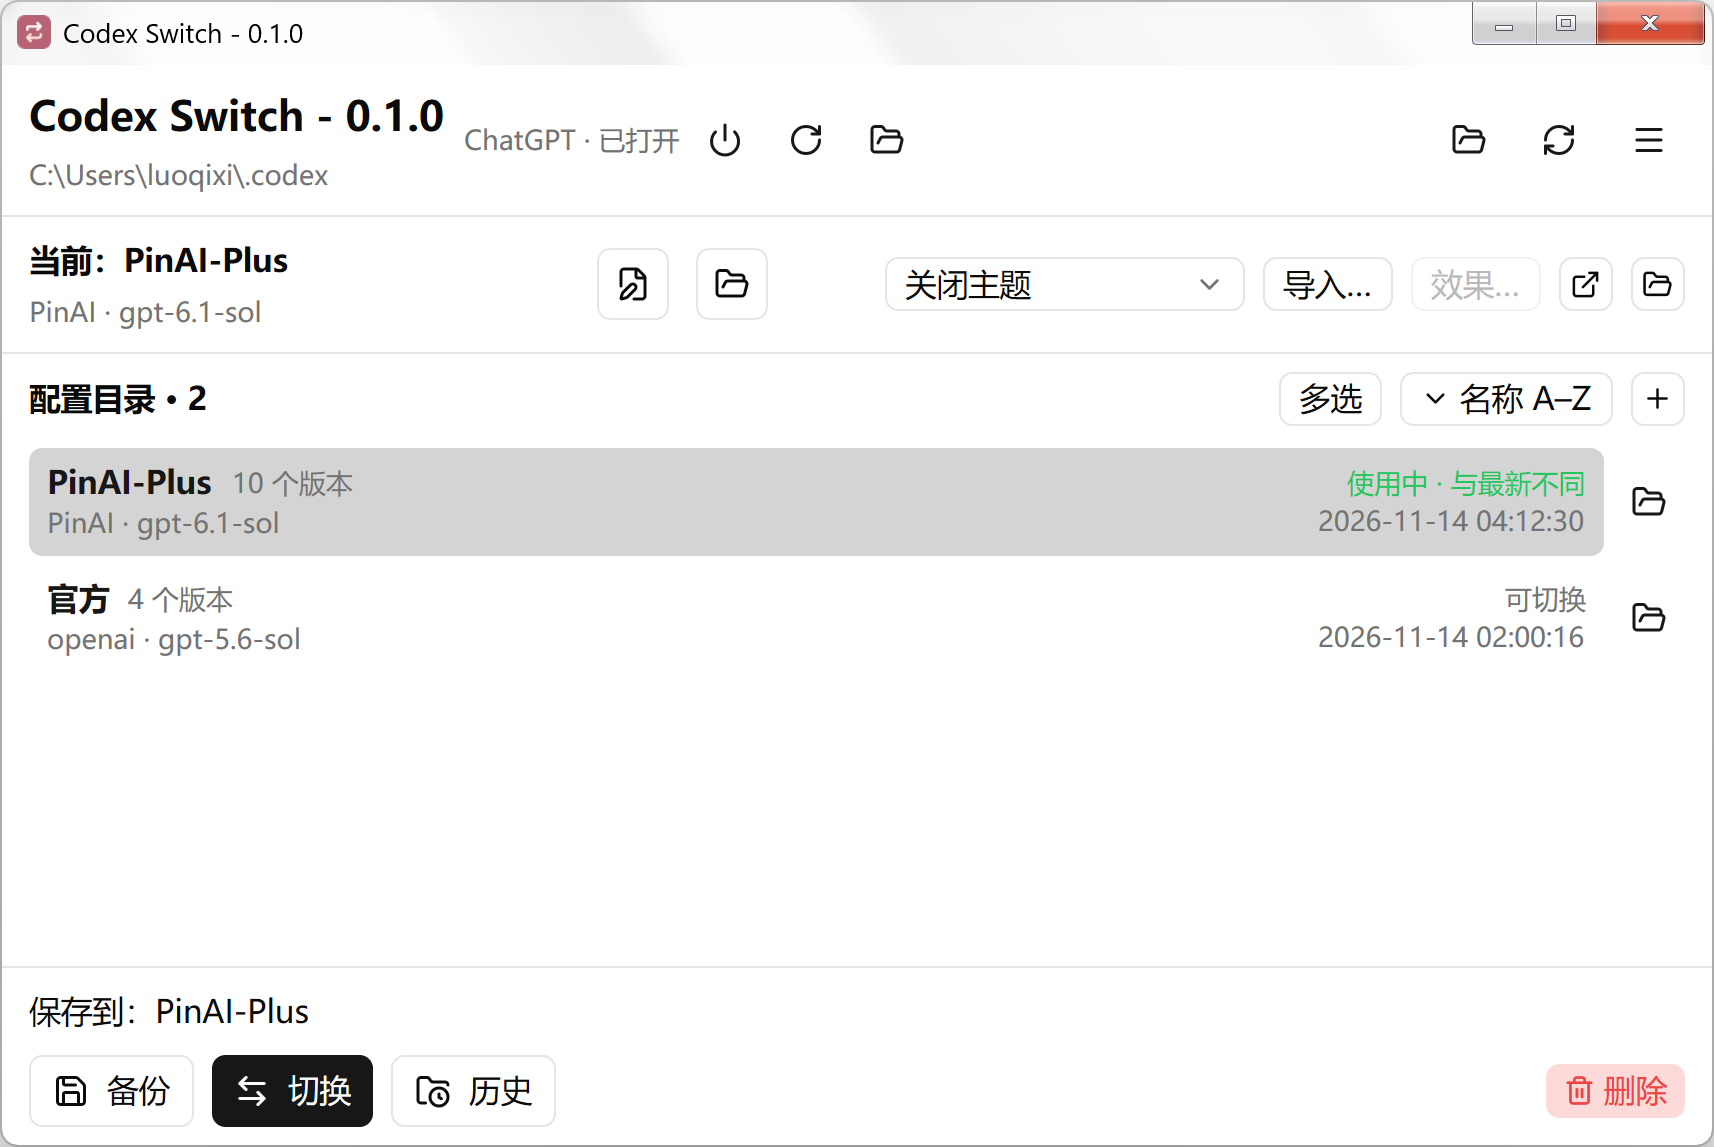
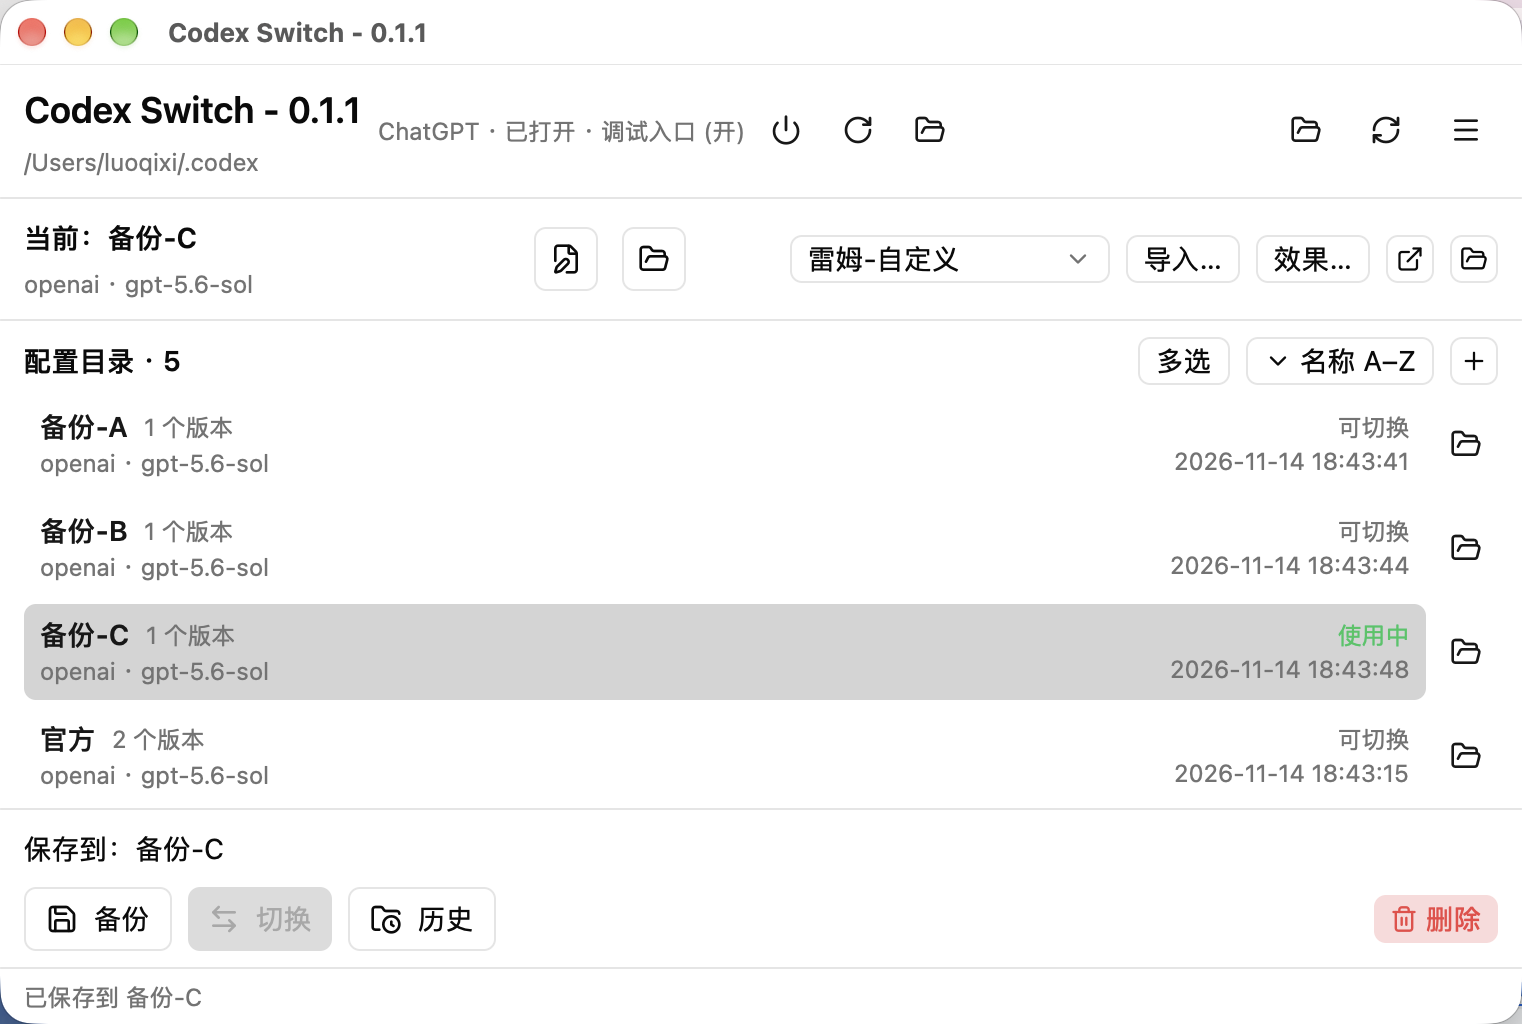
feat: macos and 0.1.1

diff --git a/src/desktop/macos.rs b/src/desktop/macos.rs
@@ -11,32 +11,47 @@ function run(argv) {
     const running = workspace.runningApplications;
     const unwrap = value => value ? (ObjC.unwrap(value) || '') : '';
     return JSON.stringify(specs.map(spec => {
-        const defaultId = 'com.openai.chat';
-        let path = spec.path;
-        let bundleId = defaultId;
+        // Current ChatGPT/Codex releases and the original ChatGPT desktop app.
+        const bundleIds = ['com.openai.codex', 'com.openai.chat'];
+        const normalize = path => unwrap($(path).stringByStandardizingPath.stringByResolvingSymlinksInPath);
+        const identifier = path => {
+            const bundle = $.NSBundle.bundleWithPath(path);
+            return bundle ? unwrap(bundle.bundleIdentifier) : '';
+        };
+        let path = spec.path ? normalize(spec.path) : '';
         let problem = '';
         if (!path) {
-            const url = workspace.URLForApplicationWithBundleIdentifier(defaultId);
-            path = url ? unwrap(url.path) : '';
-            if (!path) path = unwrap(workspace.fullPathForApplication(spec.name));
+            const candidates = bundleIds.map(id => {
+                const url = workspace.URLForApplicationWithBundleIdentifier(id);
+                return url ? unwrap(url.path) : '';
+            });
+            candidates.push(unwrap(workspace.fullPathForApplication(spec.name)),
+                '/Applications/' + spec.name + '.app',
+                unwrap($.NSHomeDirectory()) + '/Applications/' + spec.name + '.app');
+            for (const candidate of candidates) {
+                if (!candidate) continue;
+                const normalized = normalize(candidate);
+                if (!bundleIds.includes(identifier(normalized))) continue;
+                path = normalized;
+                break;
+            }
         }
-        const normalize = path => unwrap($(path).stringByStandardizingPath.stringByResolvingSymlinksInPath);
-        if (path) path = normalize(path);
-        if (path) {
-            const bundle = $.NSBundle.bundleWithPath(path);
-            const id = bundle ? unwrap(bundle.bundleIdentifier) : '';
-            if (!id || id !== defaultId) {
-                problem = 'Invalid ' + spec.name + ' application. Check Settings.';
-            } else { bundleId = id; }
+        let bundleId = path ? identifier(path) : '';
+        if (path && !bundleIds.includes(bundleId)) {
+            problem = 'Invalid ' + spec.name + ' application. Check Settings.';
         }
         const pids = [];
         for (let i = 0; i < running.count; i++) {
             const app = running.objectAtIndex(i);
-            if (unwrap(app.bundleIdentifier) !== bundleId || app.isTerminated) continue;
+            const id = unwrap(app.bundleIdentifier);
+            if (!bundleIds.includes(id) || (bundleId && id !== bundleId) || app.isTerminated) continue;
             const runningPath = app.bundleURL ? normalize(unwrap(app.bundleURL.path)) : '';
             if (spec.path && runningPath !== path) continue;
             pids.push(Number(app.processIdentifier));
-            if (!path) path = runningPath;
+            if (!path) {
+                path = runningPath;
+                bundleId = id;
+            }
         }
         return {name: spec.name, path, pids, problem};
     }));
@@ -105,4 +120,59 @@ pub(super) fn launch(status: &AppStatus) -> Result<()> {
     command.arg("--args").args(theme_arguments);
     output(command).context("无法打开 macOS 应用，请检查设置中的 .app 路径")?;
     Ok(())
+}
+
+#[cfg(test)]
+mod tests {
+    use super::*;
+
+    fn app_bundle(root: &Path, name: &str, identifier: &str) -> PathBuf {
+        let bundle = root.join(format!("{name}.app"));
+        let contents = bundle.join("Contents");
+        std::fs::create_dir_all(&contents).unwrap();
+        std::fs::write(
+            contents.join("Info.plist"),
+            format!(
+                r#"<?xml version="1.0" encoding="UTF-8"?>
+<plist version="1.0"><dict>
+<key>CFBundleIdentifier</key><string>{identifier}</string>
+<key>CFBundleName</key><string>{name}</string>
+<key>CFBundlePackageType</key><string>APPL</string>
+</dict></plist>"#
+            ),
+        )
+        .unwrap();
+        bundle.canonicalize().unwrap()
+    }
+
+    #[test]
+    fn configured_path_accepts_current_and_legacy_chatgpt_bundle_ids() {
+        let temp = tempfile::tempdir().unwrap();
+        for (name, identifier) in [
+            ("Current ChatGPT", "com.openai.codex"),
+            ("Legacy ChatGPT", "com.openai.chat"),
+        ] {
+            let path = app_bundle(temp.path(), name, identifier);
+            let statuses = inspect(&[path.to_string_lossy().into_owned()]).unwrap();
+            let status = &statuses[0];
+            assert!(status.problem().is_none(), "{status:?}");
+            assert_eq!(status.path.as_ref().unwrap().canonicalize().unwrap(), path);
+            assert!(status.has_installation_path());
+            // Another installed copy with the same ID must not match this path.
+            assert!(!status.is_running());
+        }
+    }
+
+    #[test]
+    fn configured_path_rejects_unrelated_or_missing_application() {
+        let temp = tempfile::tempdir().unwrap();
+        let unrelated = app_bundle(temp.path(), "Other", "com.example.other");
+        for path in [unrelated, temp.path().join("Missing.app")] {
+            let statuses = inspect(&[path.to_string_lossy().into_owned()]).unwrap();
+            let status = &statuses[0];
+            assert!(status.problem().is_some(), "{status:?}");
+            assert!(!status.has_installation_path());
+            assert!(!status.is_running());
+        }
+    }
 }

diff --git a/tools/generate-icon.rs b/tools/generate-icon.rs
@@ -8,6 +8,8 @@ use resvg::{
 use std::{fs, io::Write, path::Path};
 
 const ICON_SIZES: [u32; 7] = [16, 24, 32, 48, 64, 128, 256];
+// Leave room around the artwork to match the optical size of macOS Dock icons.
+const MACOS_ICON_SCALE: f32 = 0.86;
 const PREVIEW: &str = r##"<svg xmlns="http://www.w3.org/2000/svg" width="960" height="420">
   <rect width="960" height="420" fill="#F2F4F6"/>
   <rect x="480" width="480" height="420" fill="#141A21"/>
@@ -34,13 +36,17 @@ fn main() -> Result<()> {
     let icon = usvg::Tree::from_data(&source, &options).context("无法解析应用图标 SVG")?;
 
     let png = render(&icon, 512, 512)?.encode_png()?;
+    let macos_png = render_macos_icon(&icon, 512)?.encode_png()?;
     let ico = encode_ico(&icon)?;
+    let icns = encode_icns(&icon)?;
     let preview = render_preview(&icon, &options)?.encode_png()?;
 
     fs::create_dir_all(root.join("docs"))?;
     for (name, data) in [
         ("assets/icon.png", png),
+        ("assets/icon-macos.png", macos_png),
         ("assets/icon.ico", ico),
+        ("assets/icon.icns", icns),
         ("docs/icon-preview.png", preview),
     ] {
         fs::write(root.join(name), data).with_context(|| format!("无法写入 {name}"))?;
@@ -50,10 +56,22 @@ fn main() -> Result<()> {
 }
 
 fn render(tree: &usvg::Tree, width: u32, height: u32) -> Result<Pixmap> {
+    render_scaled(tree, width, height, 1.0)
+}
+
+fn render_macos_icon(tree: &usvg::Tree, size: u32) -> Result<Pixmap> {
+    render_scaled(tree, size, size, MACOS_ICON_SCALE)
+}
+
+fn render_scaled(tree: &usvg::Tree, width: u32, height: u32, artwork_scale: f32) -> Result<Pixmap> {
     let mut pixmap = Pixmap::new(width, height).context("无法分配图标画布")?;
     let scale = Transform::from_scale(
-        width as f32 / tree.size().width(),
-        height as f32 / tree.size().height(),
+        width as f32 / tree.size().width() * artwork_scale,
+        height as f32 / tree.size().height() * artwork_scale,
+    )
+    .post_translate(
+        width as f32 * (1.0 - artwork_scale) / 2.0,
+        height as f32 * (1.0 - artwork_scale) / 2.0,
     );
     resvg::render(tree, scale, &mut pixmap.as_mut());
     Ok(pixmap)
@@ -84,6 +102,32 @@ fn encode_ico(tree: &usvg::Tree) -> Result<Vec<u8>> {
         ico.extend_from_slice(&frame);
     }
     Ok(ico)
+}
+
+fn encode_icns(tree: &usvg::Tree) -> Result<Vec<u8>> {
+    // macOS PNG chunks: standard and Retina representations up to 1024px.
+    let mut chunks = Vec::new();
+    for (kind, size) in [
+        (*b"icp4", 16),
+        (*b"ic11", 32),
+        (*b"icp5", 32),
+        (*b"ic12", 64),
+        (*b"ic07", 128),
+        (*b"ic13", 256),
+        (*b"ic08", 256),
+        (*b"ic14", 512),
+        (*b"ic09", 512),
+        (*b"ic10", 1024),
+    ] {
+        let png = render_macos_icon(tree, size)?.encode_png()?;
+        chunks.extend_from_slice(&kind);
+        chunks.extend_from_slice(&u32::try_from(png.len() + 8)?.to_be_bytes());
+        chunks.extend_from_slice(&png);
+    }
+    let mut icns = Vec::from(*b"icns");
+    icns.extend_from_slice(&u32::try_from(chunks.len() + 8)?.to_be_bytes());
+    icns.extend_from_slice(&chunks);
+    Ok(icns)
 }
 
 fn render_preview(icon: &usvg::Tree, options: &usvg::Options<'_>) -> Result<Pixmap> {

diff --git a/src/themes.rs b/src/themes.rs
@@ -41,7 +41,7 @@ fn verify_listener() -> Result<()> {
     }
     #[cfg(not(target_os = "windows"))]
     {
-        let _ = expected;
+        drop(expected);
         Ok(())
     }
 }
@@ -538,13 +538,30 @@ fn run_worker(
 fn theme_directory(configured: &str) -> Result<PathBuf> {
     let configured = configured.trim().trim_matches('"');
     if configured.is_empty() {
-        Ok(std::env::current_exe()?
-            .parent()
-            .context("无法确定程序目录")?
-            .join("Themes"))
+        default_theme_directory(&std::env::current_exe()?)
     } else {
         Ok(std::path::absolute(configured)?)
     }
+}
+
+fn default_theme_directory(executable: &Path) -> Result<PathBuf> {
+    #[cfg(target_os = "macos")]
+    if executable
+        .parent()
+        .is_some_and(|p| p.ends_with("Contents/MacOS"))
+        && executable
+            .ancestors()
+            .nth(3)
+            .is_some_and(|p| p.extension().is_some_and(|ext| ext == "app"))
+    {
+        // Keep imported themes outside the signed application bundle.
+        let home = std::env::var_os("HOME").context("无法获取用户主目录")?;
+        return Ok(PathBuf::from(home).join("Library/Application Support/Codex Switch/Themes"));
+    }
+    Ok(executable
+        .parent()
+        .context("无法确定程序目录")?
+        .join("Themes"))
 }
 
 fn browser_directory(state_path: &Path) -> PathBuf {

diff --git a/src/app_assets.rs b/src/app_assets.rs
@@ -8,6 +8,25 @@ assets::icon_assets!(
 
 pub(crate) struct AppAssets;
 
+/// Also give unbundled `cargo run` processes the application's Dock icon.
+#[cfg(target_os = "macos")]
+pub(crate) fn set_macos_application_icon() {
+    use objc2::{AnyThread, MainThreadMarker};
+    use objc2_app_kit::{NSApplication, NSImage};
+    use objc2_foundation::NSData;
+
+    let Some(main_thread) = MainThreadMarker::new() else {
+        return;
+    };
+    let data = NSData::with_bytes(include_bytes!("../assets/icon-macos.png"));
+    if let Some(image) = NSImage::initWithData(NSImage::alloc(), &data) {
+        // SAFETY: A non-nil image is supplied on the main thread. AppKit retains it.
+        unsafe {
+            NSApplication::sharedApplication(main_thread).setApplicationIconImage(Some(&image));
+        }
+    }
+}
+
 impl AssetSource for AppAssets {
     fn load(&self, path: &str) -> Result<Option<Cow<'static, [u8]>>> {
         if let Some(bytes) = ExtraIcons.load(path)? {

diff --git a/src/themes/tests.rs b/src/themes/tests.rs
@@ -390,6 +390,21 @@ fn default_directory_is_relative_to_executable_instead_of_working_directory() {
     );
 }
 
+#[cfg(target_os = "macos")]
+#[test]
+fn bundled_application_keeps_imported_themes_outside_the_signed_bundle() {
+    let executable = Path::new("/Applications/Codex Switch.app/Contents/MacOS/codex-switch");
+    assert_eq!(
+        default_theme_directory(executable).unwrap(),
+        PathBuf::from(std::env::var_os("HOME").unwrap())
+            .join("Library/Application Support/Codex Switch/Themes")
+    );
+    assert_eq!(
+        default_theme_directory(Path::new("/tmp/Contents/MacOS/codex-switch")).unwrap(),
+        Path::new("/tmp/Contents/MacOS/Themes")
+    );
+}
+
 #[test]
 fn transparency_dialog_starts_at_author_alpha_until_user_overrides_it() {
     let temp = tempfile::tempdir().unwrap();

diff --git a/src/main.rs b/src/main.rs
@@ -57,6 +57,8 @@ fn main() -> anyhow::Result<()> {
     });
     app.run(move |cx| {
         init(cx);
+        #[cfg(target_os = "macos")]
+        app_assets::set_macos_application_icon();
         view::bind_keys(cx);
         shell::start(store, cx);
     });

diff --git a/README.md b/README.md
@@ -4,6 +4,23 @@
 
 <img src="./docs/screenshot.png" alt="Codex Switch 应用截图" width="1000" />
 
+## windows
+
+```sh
+cargo build --release
+```
+
+## macOS
+
+`cargo build --release` 仅生成 Unix 可执行文件。
+使用 `cargo bundle --release` 生成 .app
+
+```sh
+cargo install cargo-bundle --version 0.12.0 --locked
+cargo bundle --release
+open "target/release/bundle/osx/Codex Switch.app"
+```
+
 ## 功能
 
 - **配置管理**：查看配置列表、当前使用状态、供应商和模型，支持按名称或备份时间排序。
@@ -19,4 +36,4 @@
 
 主题功能基于 [Codex Dream Skin](https://github.com/Fei-Away/Codex-Dream-Skin) 的渲染器集成。可从 [DreamSkin 主题库](https://dreamskin.cc/gallery) 下载主题，也可通过主界面的主题库按钮打开。
 
-主题默认关闭。在设置中可指定主题目录，留空使用程序旁的 `Themes`。导入 ZIP 时按根目录（或第一个非点号开头文件夹）的 `manifest.json` 中的 `themeId` 建立主题文件夹，不做版本或哈希校验。手动解压的主题也会自动识别；在下拉框中选择主题后，可通过“效果…”调整背景透明度。
+主题默认关闭。在设置中可指定主题目录；留空时，macOS 应用包使用上述用户主题目录，windows使用程序旁的 `Themes`。导入 ZIP 时按根目录（或第一个非点号开头文件夹）的 `manifest.json` 中的 `themeId` 建立主题文件夹，不做版本或哈希校验。手动解压的主题也会自动识别；在下拉框中选择主题后，可通过“效果…”调整背景透明度。
